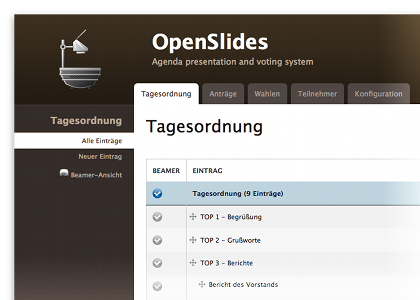
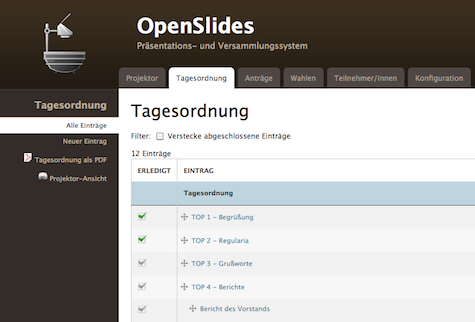
Website: Added screenshots for home.

diff --git a/extras/website/website/templates/home.html b/extras/website/website/templates/home.html
@@ -31,7 +31,7 @@
     </div>
     <div class="span5">
         <div class="thumbnail">
-          <img src="/static/img/agenda-overview_de.png" alt="">
+          <img src="/static/img/agenda-overview_{{LANGUAGE_CODE}}.png" alt="Screenshot">
         </div>
     </div>
     </div>
